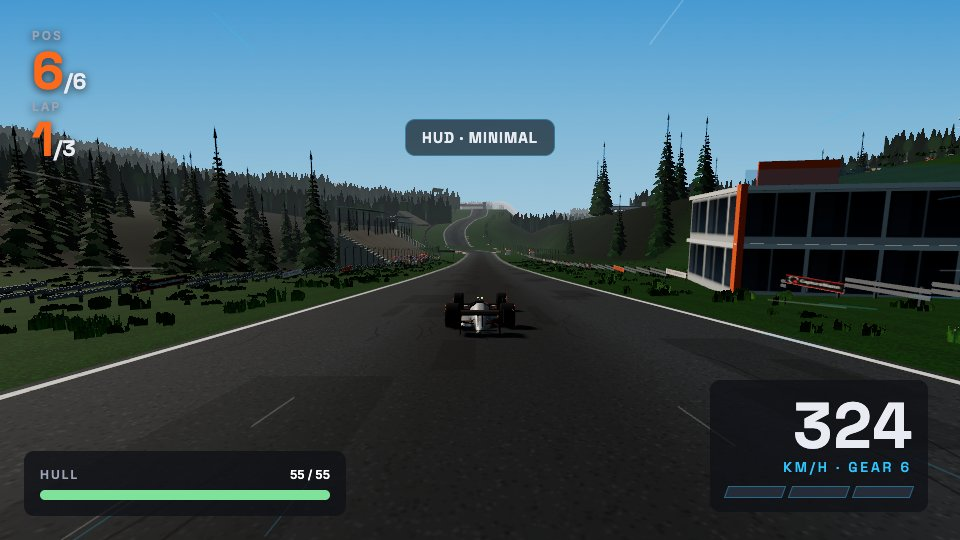
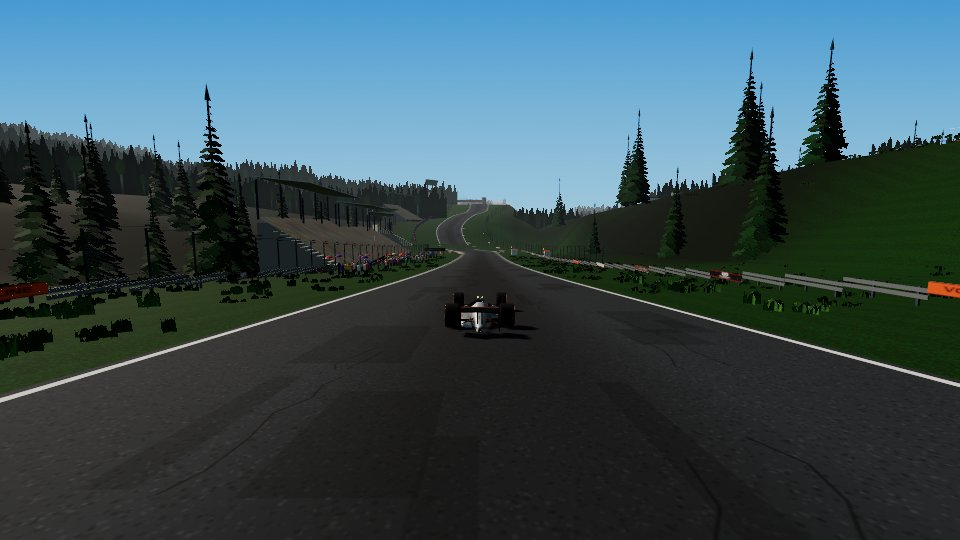
Ardennes UI pass: six-map track row on phones, clean map preview, tests
The phone track row overflowed with six maps (Ardennes cut off): equal-share
pills, a 13 px label and shorter names. The map preview no longer shows the HUD
and its toast. Menu specs now expect six maps.

Claude-Session: https://claude.ai/code/session_01XSehpSLfvuYz3K8vogaz3a

diff --git a/tests/pvdMenu.spec.ts b/tests/pvdMenu.spec.ts
@@ -21,10 +21,10 @@ async function toRaceSetup(page: Page, url: string): Promise<string[]> {
 const pills = (page: Page) => page.locator('[data-group="track"] .pill');
 const picked = (page: Page, group: string) => page.locator(`[data-group="${group}"] [aria-pressed="true"]`);
 
-test('race setup lists 5 maps; Pham Van Dong is a 2-lap storm map with its own copy', async ({ page }) => {
+test('race setup lists 6 maps; Pham Van Dong is a 2-lap storm map with its own copy', async ({ page }) => {
   test.setTimeout(90_000);
   const errors = await toRaceSetup(page, '/');
-  await expect(pills(page)).toHaveCount(5);
+  await expect(pills(page)).toHaveCount(6);
   await expect(pills(page).nth(3)).toContainText('Pham Van Dong Blvd');
 
   // The start screen is Cat Lai with 3 laps; T walks Cong Hoa → Hanoi → Pham Van Dong.
@@ -44,6 +44,9 @@ test('race setup lists 5 maps; Pham Van Dong is a 2-lap storm map with its own c
   await page.keyboard.press('t'); // Monte-Carlo
   await expect(page.locator('.mn-setup .tname')).toHaveText('Monte-Carlo Harbour');
   await expect(picked(page, 'laps')).toHaveText('3 laps');
+  await page.keyboard.press('t'); // Ardennes
+  await expect(page.locator('.mn-setup .tname')).toHaveText('Ardennes Forest Circuit');
+  await expect(picked(page, 'laps')).toHaveText('3 laps');
   await page.keyboard.press('t'); // wraps to Cat Lai
   await expect(page.locator('.mn-setup .tname')).toHaveText('Cat Lai Port');
   await expect(picked(page, 'laps')).toHaveText('3 laps');
@@ -56,10 +59,10 @@ test('race setup lists 5 maps; Pham Van Dong is a 2-lap storm map with its own c
 test.describe('on a phone', () => {
   test.use({ viewport: { width: 844, height: 390 }, hasTouch: true, isMobile: true });
 
-  test('the five map buttons use short labels and all fit on one row', async ({ page }) => {
+  test('the six map buttons use short labels and all fit on one row', async ({ page }) => {
     test.setTimeout(90_000);
     const errors = await toRaceSetup(page, '/?touch=1');
-    await expect(pills(page)).toHaveCount(5);
+    await expect(pills(page)).toHaveCount(6);
     // The DOM keeps the full names; CSS paints the short label (`::after`) and hides the full text on phones.
     await expect(pills(page).nth(3)).toHaveText('Pham Van Dong Blvd');
     const labels = await pills(page).evaluateAll((els) =>
@@ -68,7 +71,7 @@ test.describe('on a phone', () => {
         size: getComputedStyle(e).fontSize,
       })),
     );
-    expect(labels.map((l) => l.short)).toEqual(['Cat Lai', 'Cong Hoa', 'Hanoi Hwy', 'P.V. Đồng', 'Monaco']);
+    expect(labels.map((l) => l.short)).toEqual(['Cat Lai', 'Cong Hoa', 'Hanoi', 'P.V.Đồng', 'Monaco', 'Ardennes']);
     expect(labels.every((l) => l.size === '0px')).toBe(true);
     const boxes = await pills(page).evaluateAll((els) =>
       els.map((e) => {

diff --git a/tests/keyboard.spec.ts b/tests/keyboard.spec.ts
@@ -89,10 +89,12 @@ test('the whole game can be played with the keyboard alone: loading → race →
   await expect(page.locator('.mn-setup .tname')).toHaveText('Hanoi Highway');
   await page.keyboard.press('t'); // → Pham Van Dong (a 2-lap storm map: laps follow the map)
   await expect(page.locator('.mn-setup .tname')).toHaveText('Pham Van Dong Boulevard');
-  await expect(page.locator('[data-group="track"] .pill')).toHaveCount(5);
+  await expect(page.locator('[data-group="track"] .pill')).toHaveCount(6);
   await expect(page.locator('[data-group="laps"] [aria-pressed="true"]')).toHaveText('2 laps');
   await page.keyboard.press('t'); // → Monte-Carlo (3 laps)
   await expect(page.locator('.mn-setup .tname')).toHaveText('Monte-Carlo Harbour');
+  await page.keyboard.press('t'); // → Ardennes
+  await expect(page.locator('.mn-setup .tname')).toHaveText('Ardennes Forest Circuit');
   await page.keyboard.press('t'); // wrapped around to Cat Lai
   await expect(page.locator('.mn-setup .tname')).toHaveText('Cat Lai Port');
   await expect(page.locator('[data-group="laps"] [aria-pressed="true"]')).toHaveText('3 laps');

diff --git a/src/ui/screens/raceSetup.ts b/src/ui/screens/raceSetup.ts
@@ -28,12 +28,12 @@ const DIFFS: { id: Difficulty; label: string; note: string }[] = [
 type RowId = 'track' | 'laps' | 'diff';
 
 const shortName = (t: TrackDef): string => t.name.replace('Boulevard', 'Blvd');
-/** Phone labels: four buttons share ~430 px. */
+/** Phone labels: six buttons share ~430 px. */
 const MOBILE_NAMES: Record<string, string> = {
   cat_lai: 'Cat Lai',
   cong_hoa: 'Cong Hoa',
-  xa_lo_ha_noi: 'Hanoi Hwy',
-  pham_van_dong: 'P.V. Đồng',
+  xa_lo_ha_noi: 'Hanoi',
+  pham_van_dong: 'P.V.Đồng',
   monte_carlo: 'Monaco',
   ardennes: 'Ardennes',
 };

diff --git a/src/ui/touch/touch.css b/src/ui/touch/touch.css
@@ -680,9 +680,18 @@ body.is-touch .mn-setup .pill {
   padding: 6px 8px;
   font-size: 15px;
 }
+body.is-touch .mn-setup [data-group='track'] {
+  gap: 4px;
+}
+/* six maps share one row: equal shares, a smaller label */
 body.is-touch .mn-setup [data-group='track'] .pill {
-  padding: 6px 6px;
+  flex: 1 1 0;
+  min-width: 0;
+  padding: 6px 2px;
   white-space: nowrap;
+}
+body.is-touch .mn-setup [data-group='track'] .pill[data-short]::after {
+  font-size: 13px;
 }
 body.is-touch .mn-foot {
   gap: 10px;
